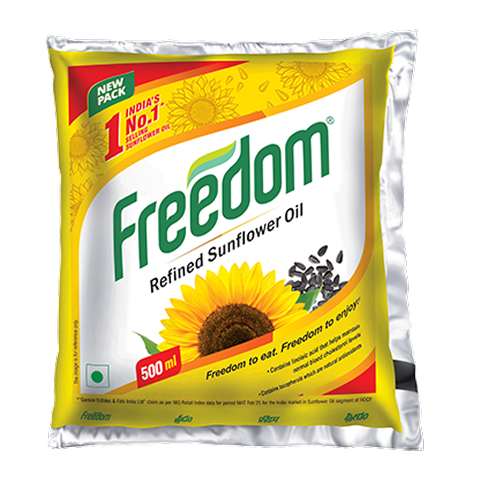
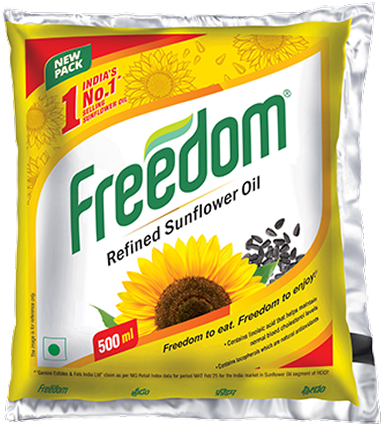
Fit the pack shot to its frame
The padding around a product picture was baked into the file: each shot
sat on a canvas with transparent margin around it, so the plate drew the
margin and the pack came out small. Trim every Freedom shot to the pack
itself.

Trimming made them non-square, which exposed a second fault. A plate
centres its content, and an <img> carries an intrinsic aspect ratio, so
it ignores a stretch and its percentage height has nothing definite to
resolve against — the 1 L bottle laid out over three times its frame and
was cut off top and bottom. Give the picture a plain span to size
against, and it is contained again: every pack now measures its frame
exactly on the side it runs out first.

diff --git a/packages/components/src/ProductImage.tsx b/packages/components/src/ProductImage.tsx
@@ -17,7 +17,23 @@ export interface ProductImageProps {
 
 export function ProductImage({ image, alt = '', className }: ProductImageProps) {
   if (isProductPhoto(image)) {
-    return <img src={encodeURI(image!)} alt={alt} className={cn('h-full w-full object-contain', className)} />;
+    /* The picture goes in a box of its own rather than straight into the
+       plate. The plates centre their content, and an <img> carries an
+       intrinsic aspect ratio, so it ignores a stretch and a percentage height
+       has nothing definite to resolve against — a tall pack (the 1 L bottle
+       is over three times its frame) grew past the plate and was clipped. A
+       plain span has no ratio of its own, so it does take the plate's size,
+       and the picture fills it absolutely: contained, centred, edge to edge
+       on whichever side runs out first. */
+    return (
+      <span className="relative block h-full w-full self-stretch justify-self-stretch">
+        <img
+          src={encodeURI(image!)}
+          alt={alt}
+          className={cn('absolute inset-0 h-full w-full object-contain', className)}
+        />
+      </span>
+    );
   }
   return <span aria-hidden>{image ?? '📦'}</span>;
 }
